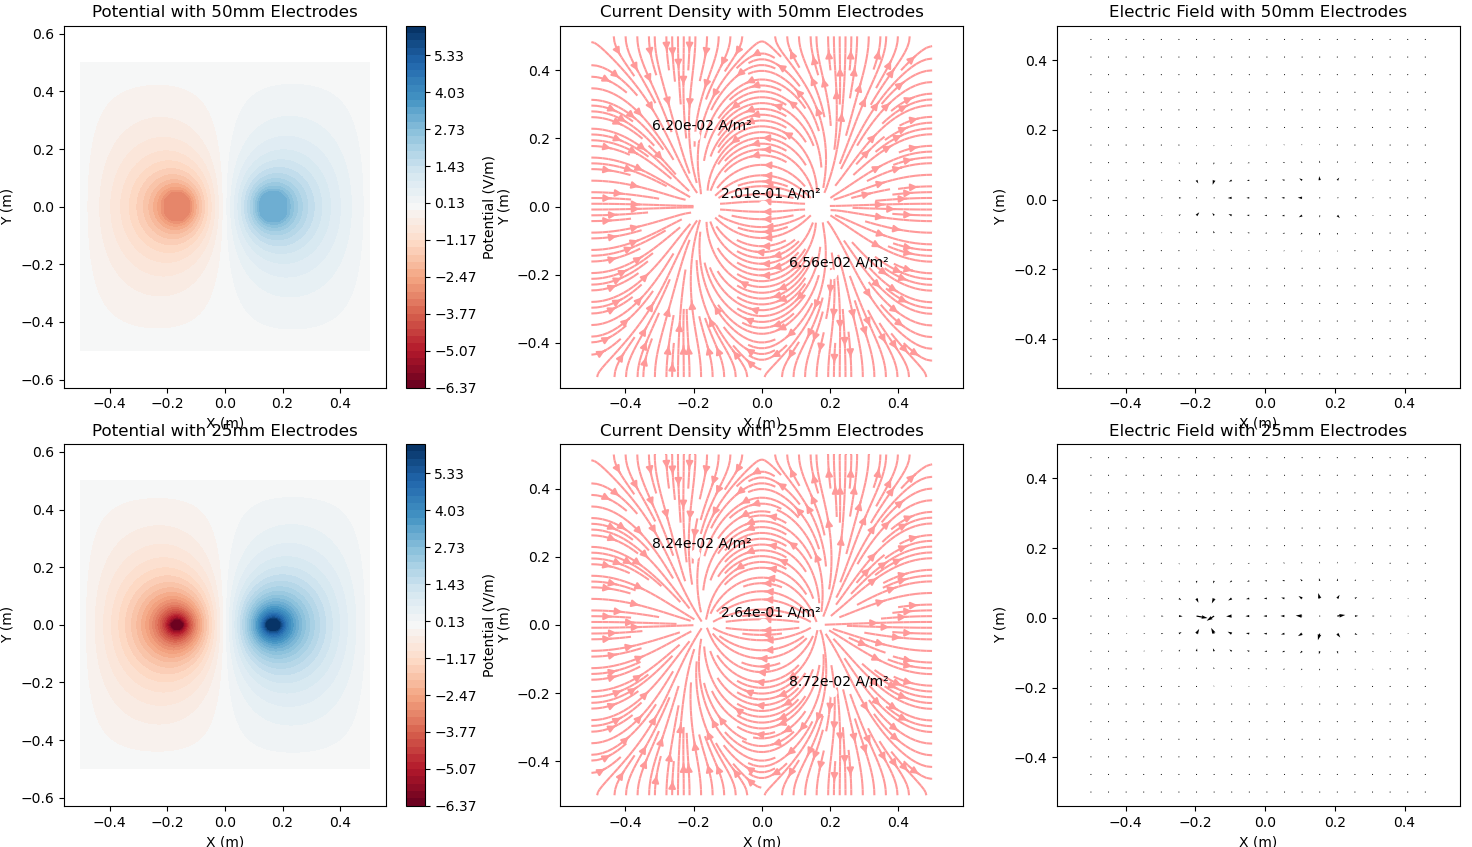
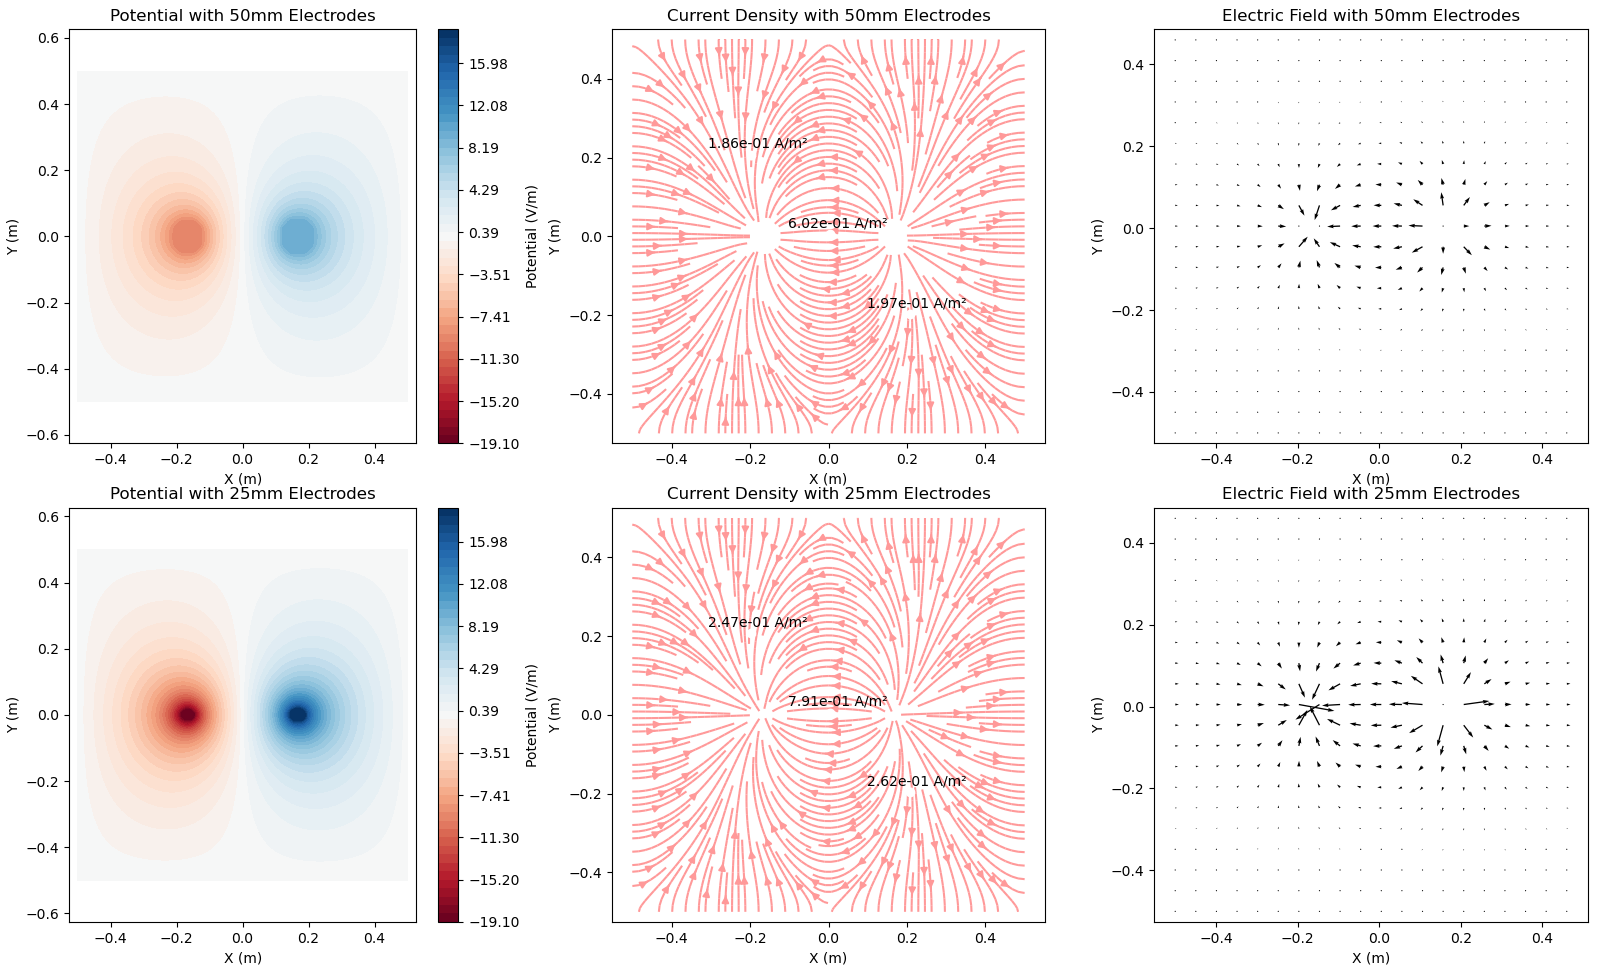
update script to add electric field

diff --git a/e_geo.py b/e_geo.py
@@ -6,7 +6,7 @@ def solve_potential_2d_medium(
     grid_size=100,
     medium_radius=0.5,
     electrode_radius=0.005,
-    current=1.0,
+    current=3.0,
     conductivity=1.0,
     voltage_scale=1,
 ):
